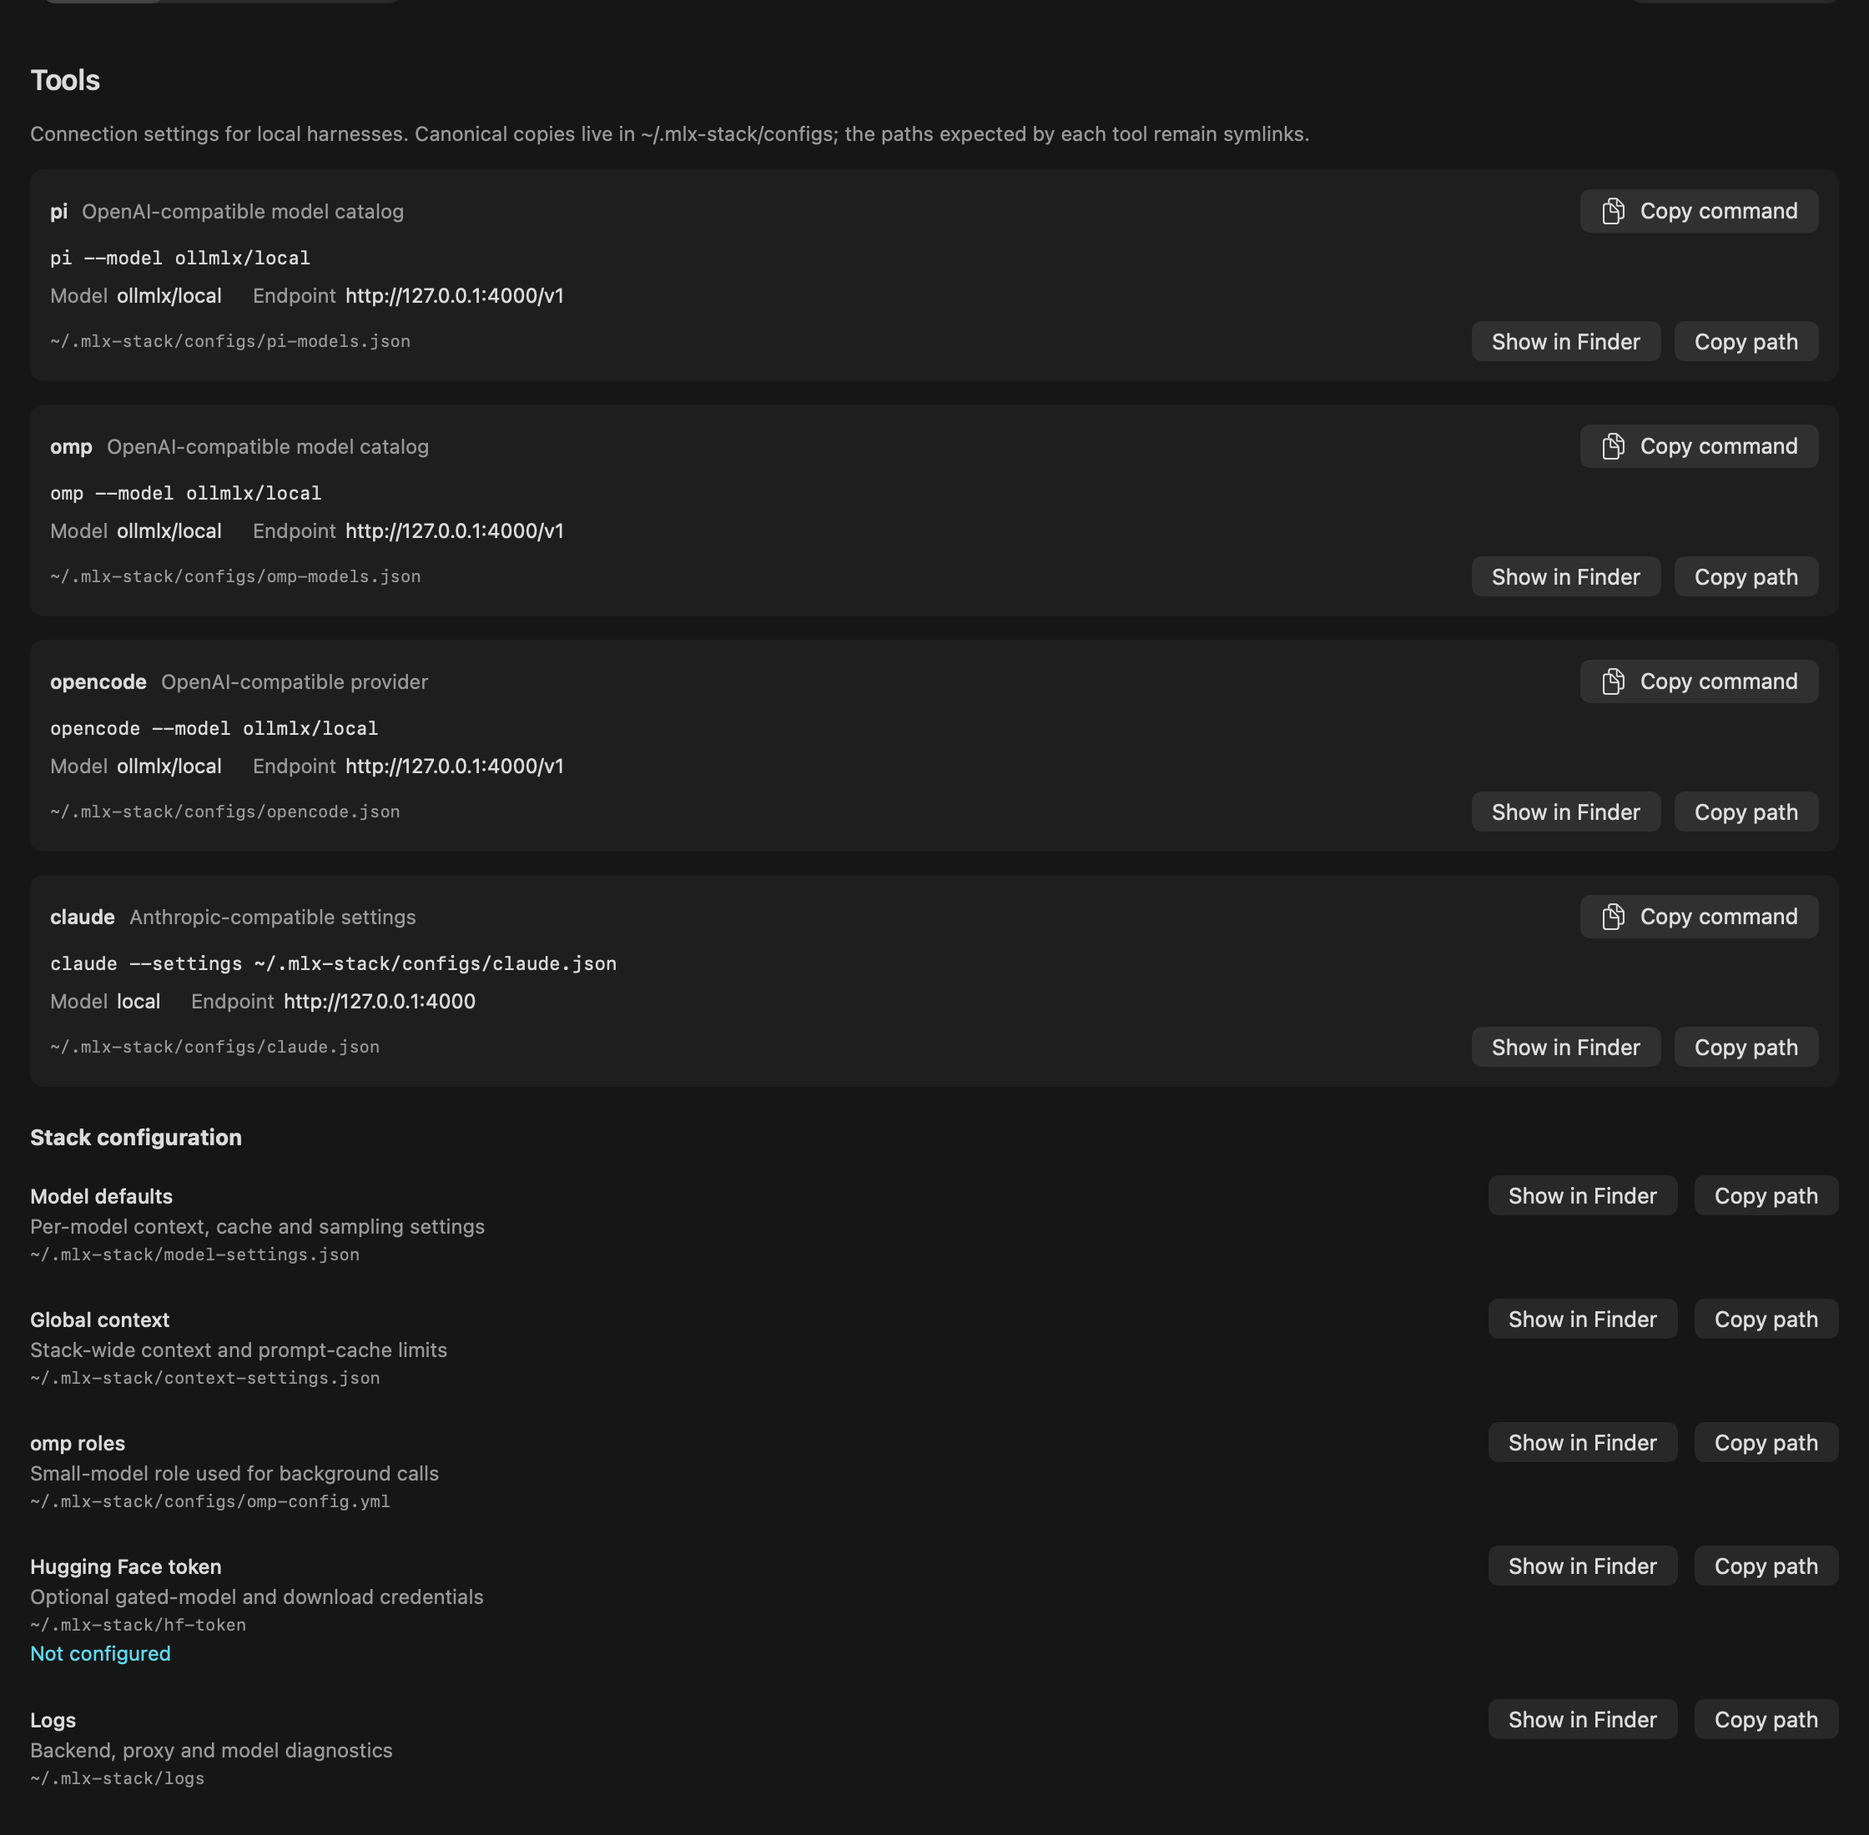
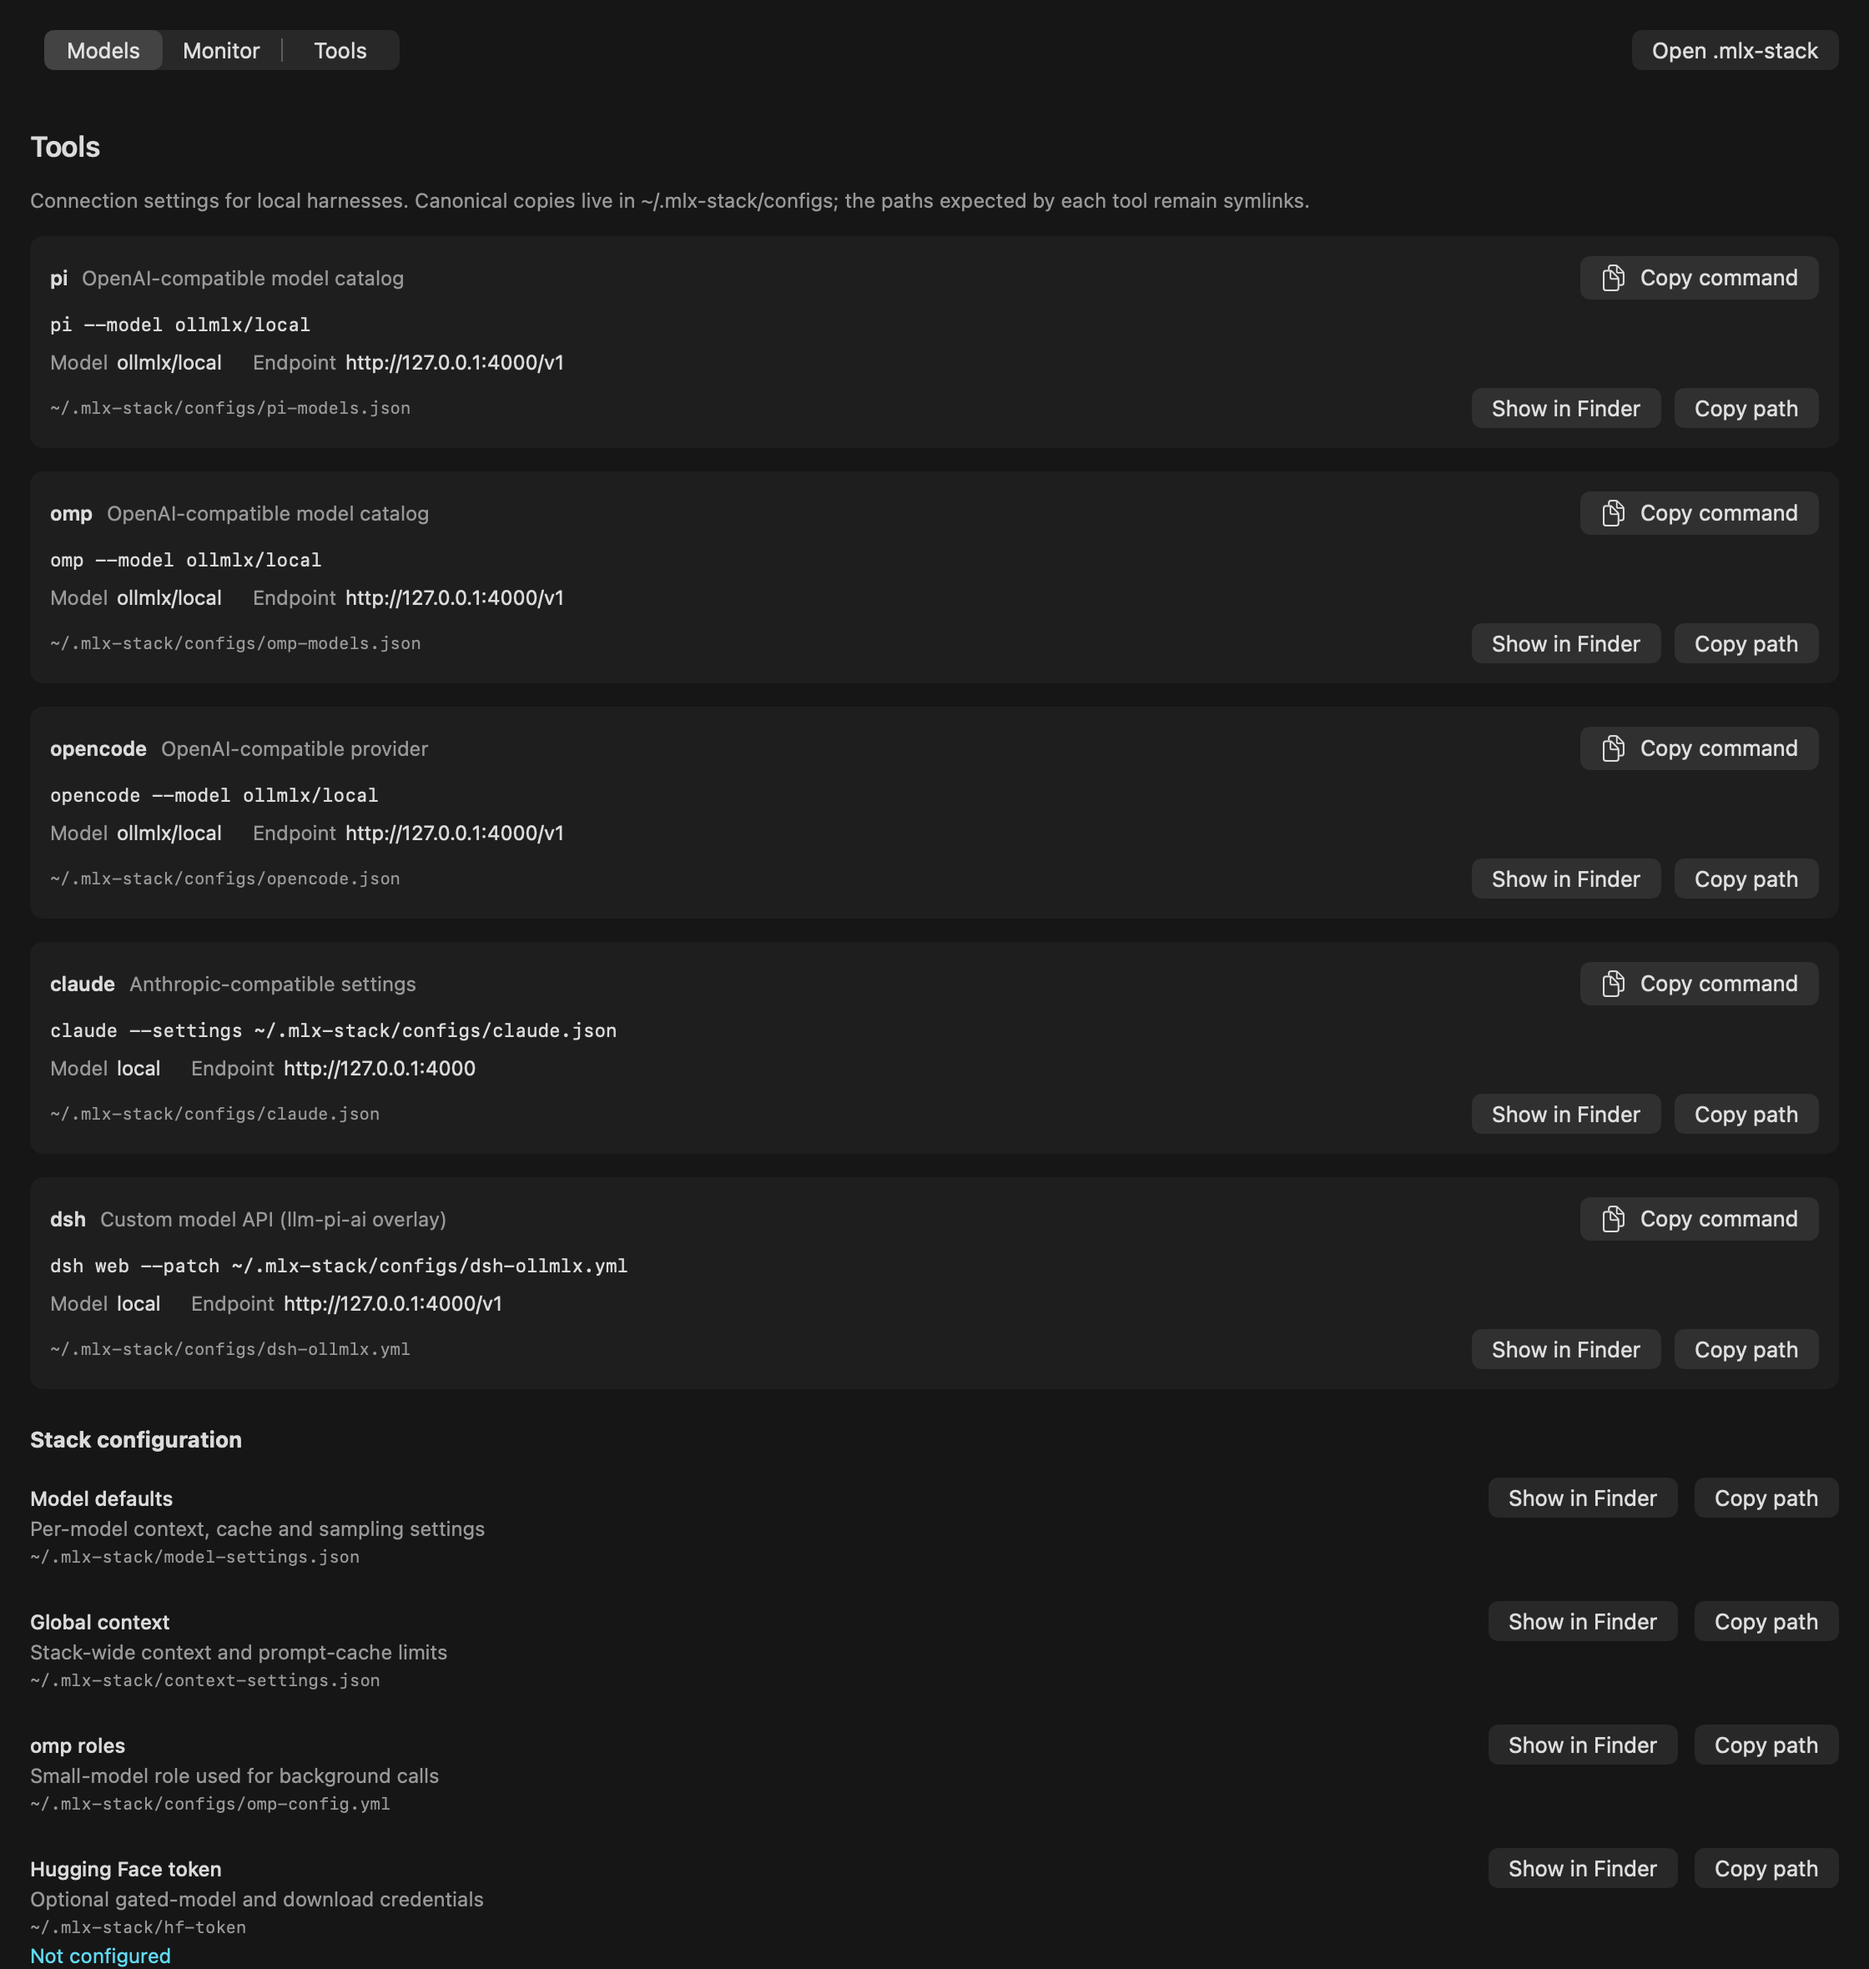
Show dsh connected to MLX Stack in the README
- The Tools screenshot now includes the dsh row, and the dsh section has a capture of dsh's own model picker with ollmlx and the loaded models.

diff --git a/README.md b/README.md
@@ -89,6 +89,8 @@ Loading a model writes the harness configuration and points every harness at the
 
 Each harness file is a symlink to its canonical copy in `~/.mlx-stack/configs`; a file that already exists is copied there first. dsh is different: the overlay only adds a provider, so nothing in `$DSH_HOME` is rewritten. It declares the custom provider `ollmlx` with the OpenAI Chat Completions protocol, the base URL and the local key as an `Authorization` header — no environment variable needed. The same values can be entered in dsh's Web UI via **Settings → Models → Add model provider → Custom model API**.
 
+![dsh's model picker with MLX Stack as a provider](docs/dsh-provider.png)
+
 The proxy speaks both APIs:
 
 | API | Endpoints | Used by |
